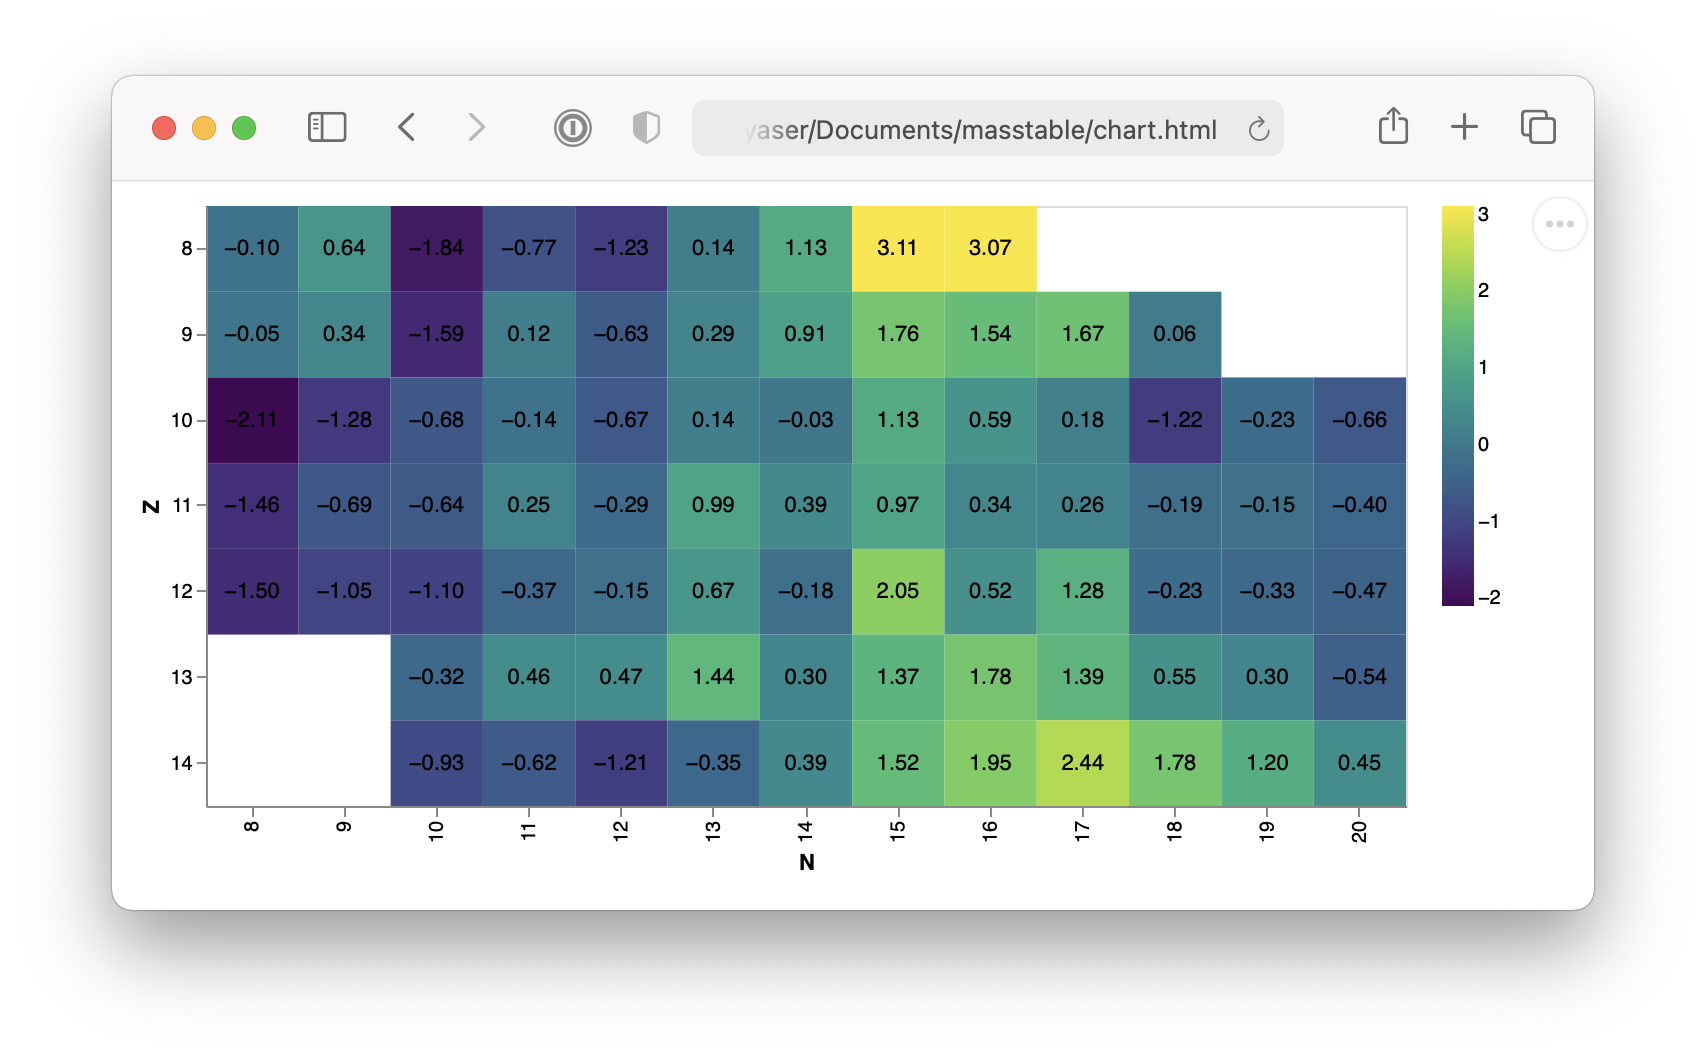
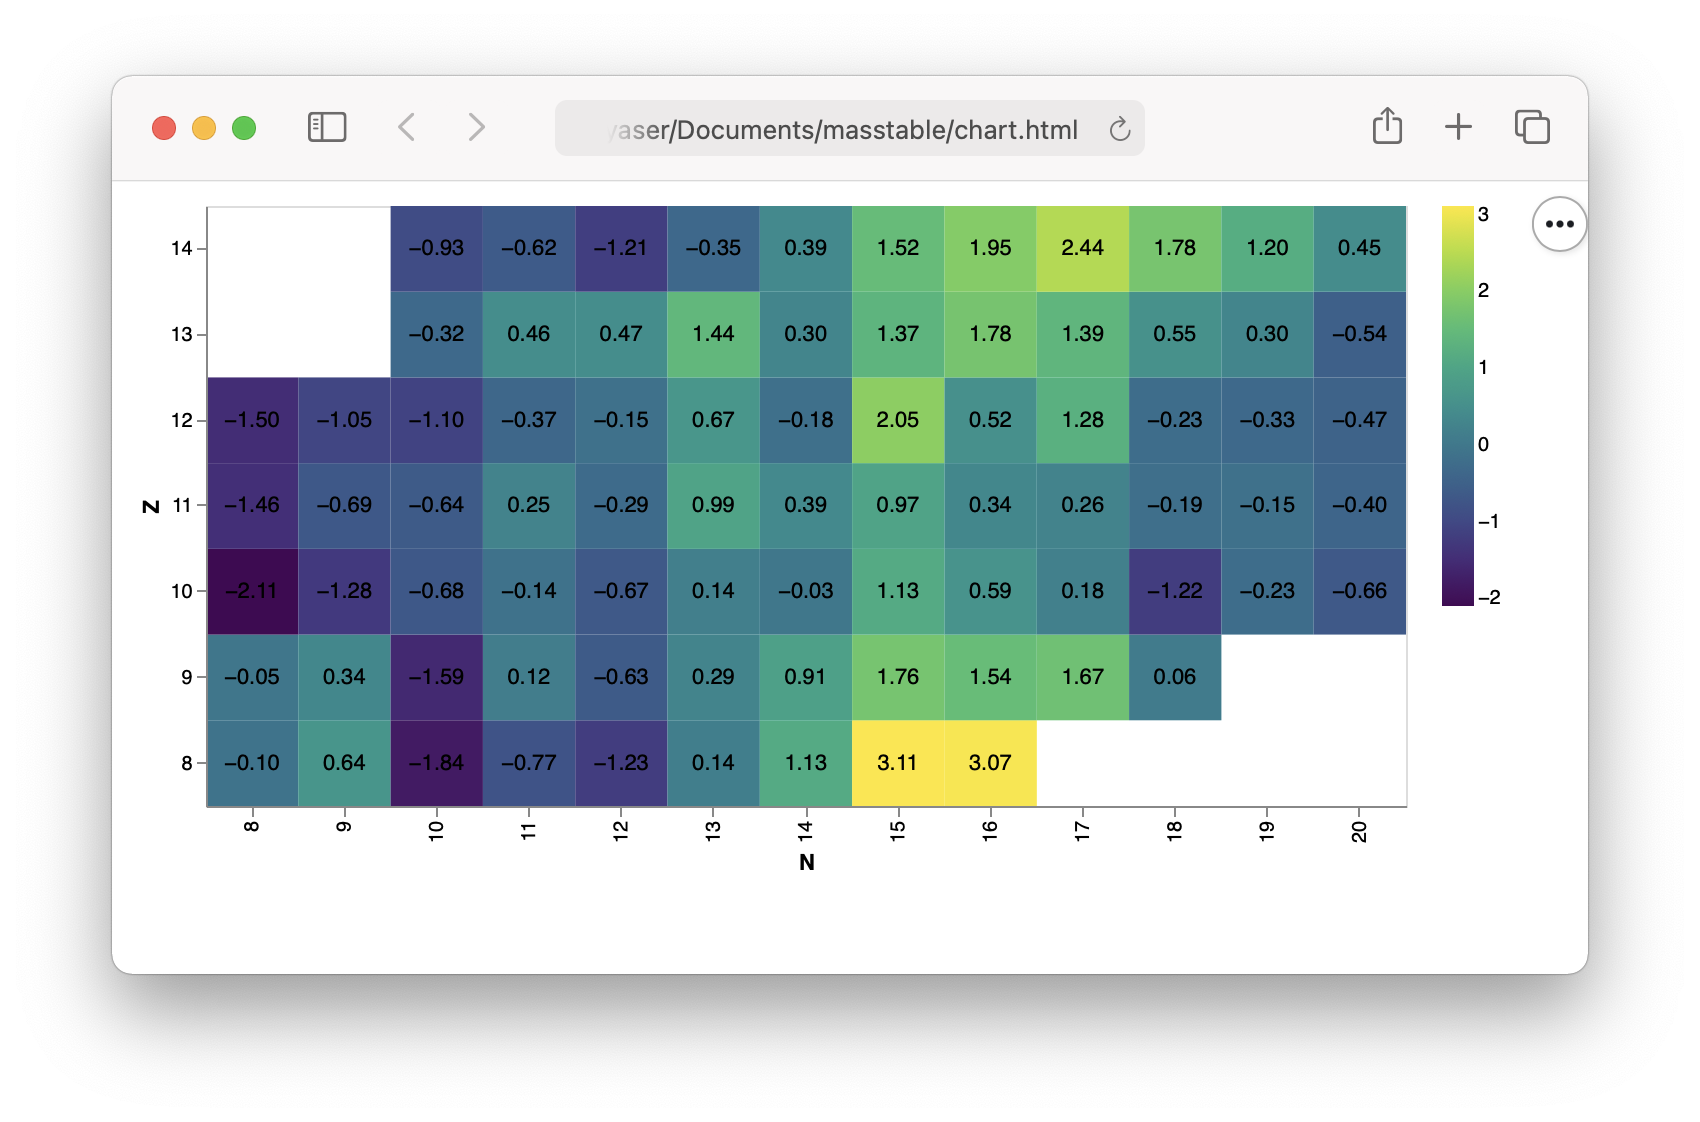
fix y axis direction in chart_altair

diff --git a/masstable/masstable.py b/masstable/masstable.py
@@ -673,7 +673,11 @@ class Table:
 
         base = alt.Chart(data).encode(
             alt.X("N:O", scale=alt.Scale(paddingInner=0)),
-            alt.Y("Z:O", scale=alt.Scale(paddingInner=0)),
+            alt.Y(
+                "Z:O",
+                scale=alt.Scale(paddingInner=0),
+                sort=alt.EncodingSortField("Z", order="descending"),
+            ),
         )
 
         chart = base.mark_rect().encode(
@@ -684,7 +688,6 @@ class Table:
                 title=title,
             )
         )
-
 
         if overlay_text:
             text = base.mark_text(baseline="middle").encode(
@@ -698,7 +701,6 @@ class Table:
         height = round(width * y_range / x_range)
         chart = chart.properties(width=width, height=height)
 
-        
         if path is not None:
             chart.save(path)
         return chart
